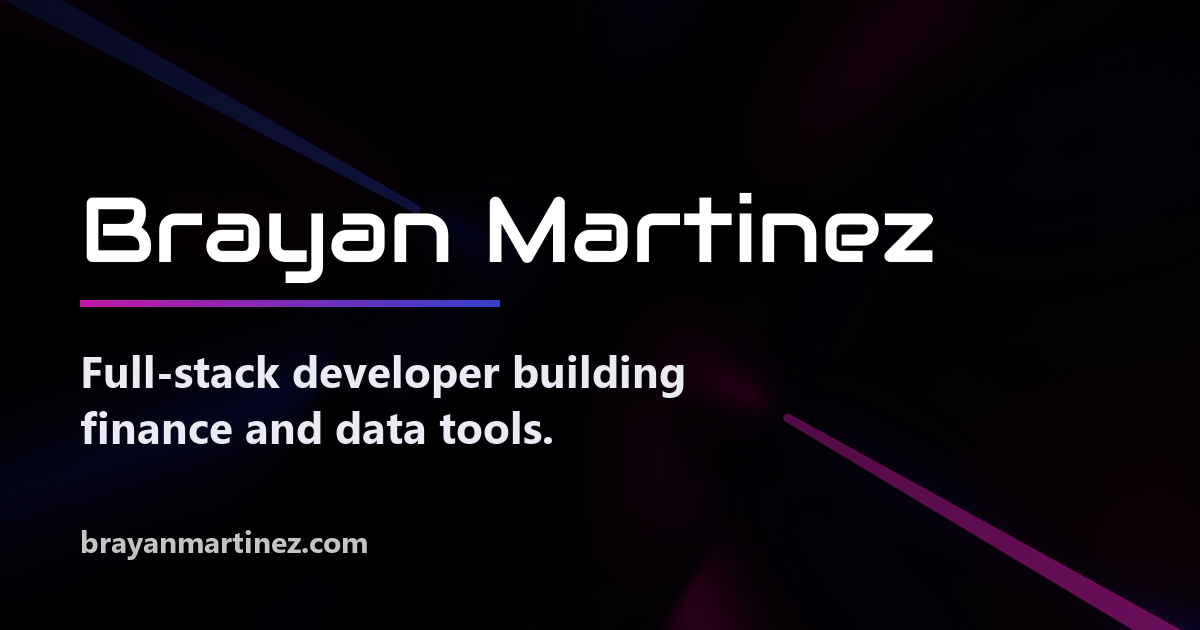
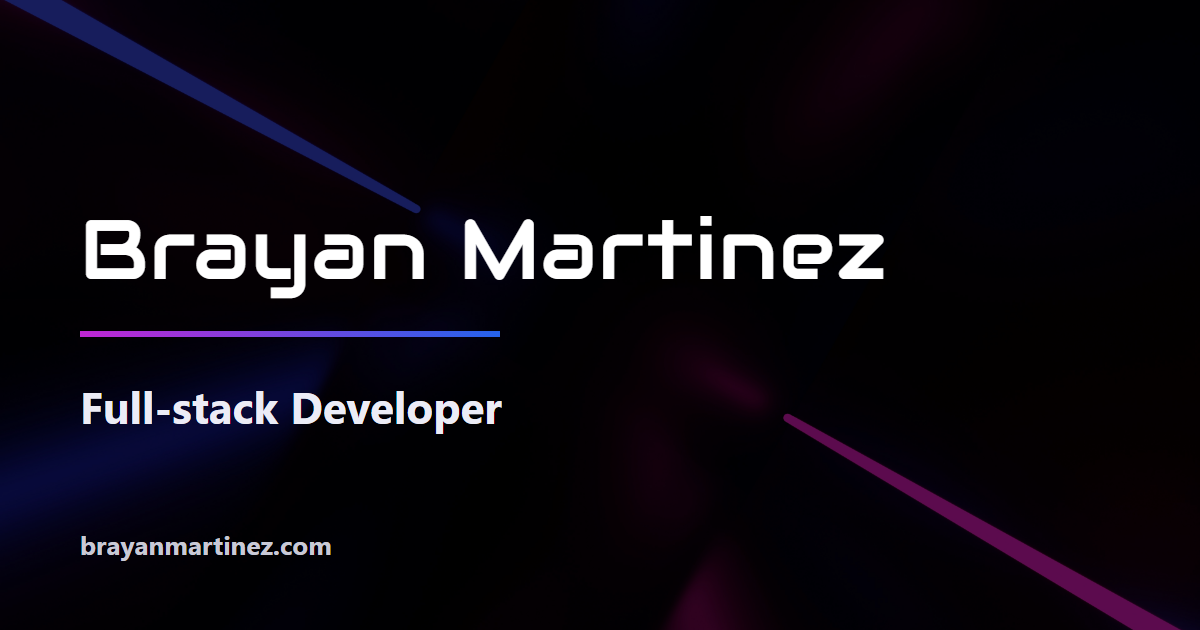
Replace finance and data tools tagline with a broader Full-stack Developer message

Changed region(s): [[0.0, 0.0, 0.8017, 0.8444], [0.0617, 0.8444, 0.3083, 0.9048]]

diff --git a/index.html b/index.html
@@ -10,22 +10,22 @@
     <link href="https://fonts.googleapis.com/css2?family=Exo+2:ital,wght@0,100..900;1,100..900&display=swap" rel="stylesheet">
 
     <title>Brayan Martinez | Full-Stack Developer</title>
-    <meta name="description" content="Brayan Martinez is a full-stack developer in New Jersey building finance and data tools. Projects, experience and resume." />
+    <meta name="description" content="Brayan Martinez is a full-stack developer in New Jersey who builds websites and apps. Projects, experience and resume." />
     <link rel="canonical" href="https://www.brayanmartinez.com/" />
 
     <meta property="og:type" content="website" />
     <meta property="og:site_name" content="Brayan Martinez" />
     <meta property="og:title" content="Brayan Martinez | Full-Stack Developer" />
-    <meta property="og:description" content="Full-stack developer in New Jersey building finance and data tools. Projects, experience and resume." />
+    <meta property="og:description" content="Full-stack developer in New Jersey who builds websites and apps. Projects, experience and resume." />
     <meta property="og:url" content="https://www.brayanmartinez.com/" />
     <meta property="og:image" content="https://www.brayanmartinez.com/og-image.png" />
     <meta property="og:image:width" content="1200" />
     <meta property="og:image:height" content="630" />
-    <meta property="og:image:alt" content="Brayan Martinez, Full-stack developer building finance and data tools" />
+    <meta property="og:image:alt" content="Brayan Martinez, Full-stack Developer" />
 
     <meta name="twitter:card" content="summary_large_image" />
     <meta name="twitter:title" content="Brayan Martinez | Full-Stack Developer" />
-    <meta name="twitter:description" content="Full-stack developer in New Jersey building finance and data tools. Projects, experience and resume." />
+    <meta name="twitter:description" content="Full-stack developer in New Jersey who builds websites and apps. Projects, experience and resume." />
     <meta name="twitter:image" content="https://www.brayanmartinez.com/og-image.png" />
   </head>
   <body>

diff --git a/src/components/Hero.jsx b/src/components/Hero.jsx
@@ -33,12 +33,10 @@ export const Hero = () => {
           <div className='flex flex-col gap-10 w-full md:w-3/4 text-center'>
             <h1 className='md:text-5xl text-3xl'>Brayan Martinez</h1>
             <p className='md:text-9xl text-5xl leading-tight'>
-              <span className='Hero_transparent_text'>Full-stack</span> developer building{' '}
-              <span className='Hero_transparent_text'>finance</span> and{' '}
-              <span className='Hero_transparent_text'>data</span> tools.
+              <span className='Hero_transparent_text'>Full-stack</span> Developer
             </p>
             <p className='font-Exo2 md:text-4xl text-2xl'>
-              Open to new opportunities in full-stack development.
+              Building web pages and solving technical problems.
             </p>
             <div className='flex flex-wrap justify-center gap-4 font-Exo2 md:text-3xl text-2xl pointer-events-auto'>
               <a

diff --git a/src/components/About.jsx b/src/components/About.jsx
@@ -36,8 +36,8 @@ export const About = () => {
                                     <p className=''>
                                         I'm a full-stack developer in New Jersey, building web applications
                                         end to end at UniPro International Uniforms. My background spans web
-                                        development, machine-learning research and cybersecurity. I like
-                                        building tools that make data easy to work with. <span className='text-primary font-bold'>Let's talk.</span>
+                                        development, machine-learning research and cybersecurity. I enjoy
+                                        building websites and apps and solving the technical problems that come with them.<span className='text-primary font-bold'>Let's talk.</span>
                                     </p>
                                 </ScrollReveal>
 
